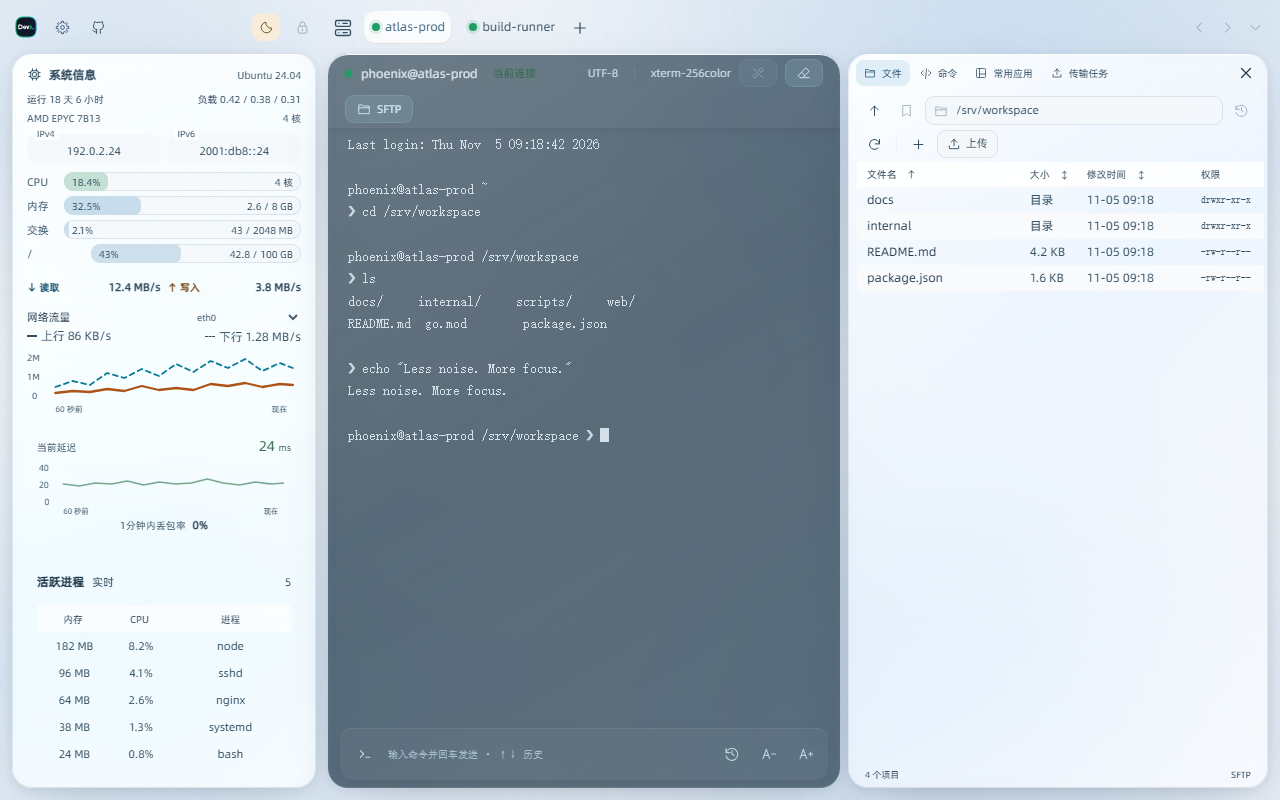
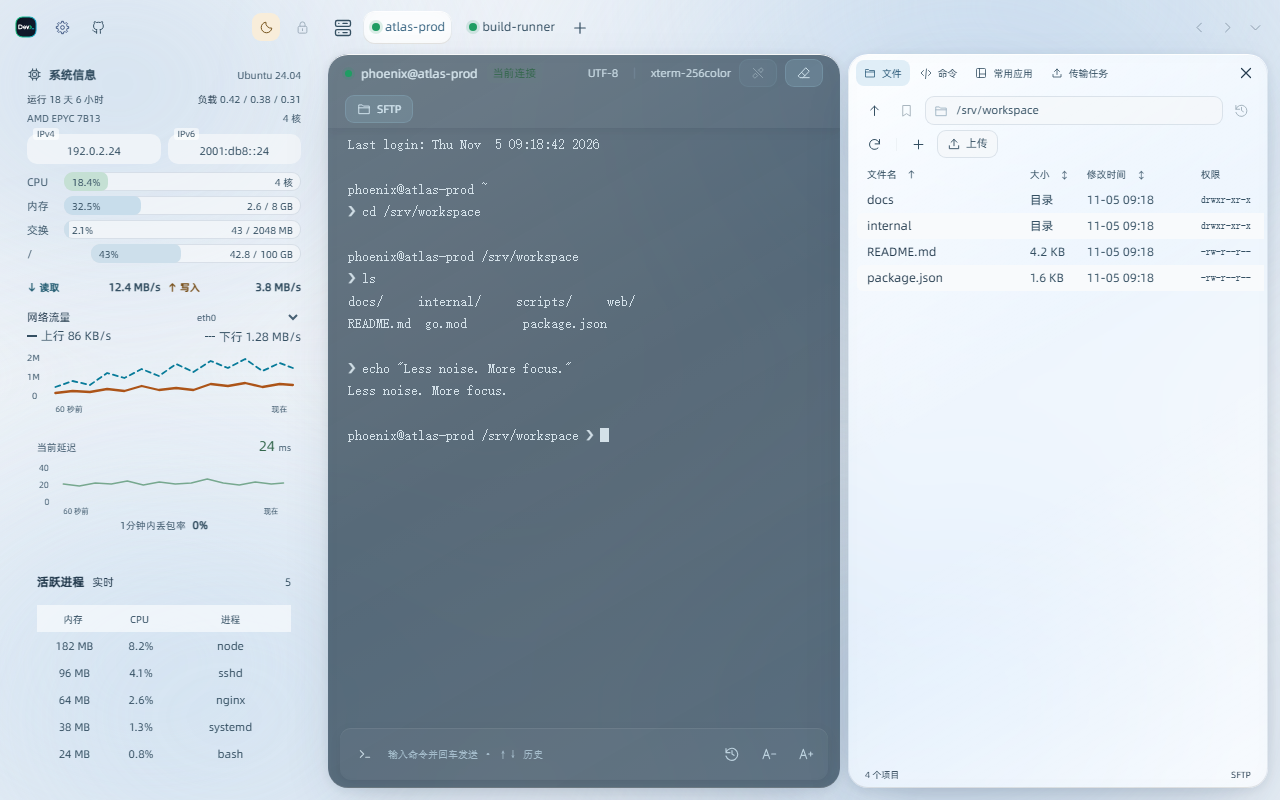
液态玻璃监控区融入画布，仅 Shell 与 SFTP 轻微分隔
监控区宽屏下不再是玻璃卡：透明背景、去模糊与投影，内容直接融入
画布，从顶部工具栏下方开始（margin-top 对齐保留），与 Shell、SFTP
顶部对齐；监控内不设嵌套卡片。文件列表去掉内框：表头取消粘顶与
底带，作为标题行随内容滚动，靠留白、标题与选中状态区分。窄屏抽屉
保持玻璃面避免压字。

验证：CSS 括号平衡、test:theme、test:tcp 通过；重截浅深预览确认。

Changed region(s): [[0.0312, 0.75, 0.25, 1.0], [0.0, 0.0625, 0.25, 0.2812]]

diff --git a/web/css/ui-styles.css b/web/css/ui-styles.css
@@ -105,9 +105,10 @@
   background:radial-gradient(42% 46% at 62% 30%,#aecbe8,#0000 60%),radial-gradient(36% 40% at 30% 70%,#c2d8ec,#0000 62%); }
 @keyframes liquid-drift { from { transform:translate3d(-2.5%,-1.5%,0) scale(1.05); } to { transform:translate3d(2.5%,2%,0) scale(1.14); } }
 [data-ui-style="frosted"] .sidebar { background:var(--glass-sheen),var(--glass-sidebar); backdrop-filter:blur(30px) saturate(1.8) brightness(1.05); -webkit-backdrop-filter:blur(30px) saturate(1.8) brightness(1.05); box-shadow:var(--glass-edge),inset -1px 0 var(--border),var(--shadow); }
-/* 宽屏下监控玻璃面从顶部工具栏下方开始，与 Shell 和 SFTP 对齐。
-   窄屏抽屉保持原来的定位。 */
-:root:not([data-narrow="true"])[data-ui-style="frosted"] .sidebar { background:var(--glass-sheen),var(--glass-sidebar); box-shadow:var(--glass-edge),var(--shadow); backdrop-filter:blur(30px) saturate(1.8) brightness(1.05); -webkit-backdrop-filter:blur(30px) saturate(1.8) brightness(1.05); border-radius:20px; }
+/* 宽屏下监控区不再是独立玻璃卡：内容直接融入画布，只从顶部工具栏下方
+   开始（margin-top:48px），与 Shell 和 SFTP 面板顶部对齐；仅 Shell 与
+   SFTP 两块玻璃与画布轻微分隔。窄屏抽屉保持玻璃面避免压字。 */
+:root:not([data-narrow="true"])[data-ui-style="frosted"] .sidebar { background:transparent; box-shadow:none; backdrop-filter:none; -webkit-backdrop-filter:none; border-radius:0; }
 html[data-ui-style="frosted"]:not([data-narrow="true"]):not([data-monitor-visible="false"]) .sidebar { margin-top:48px; padding-top:0; }
 /* 玻璃面上不留硬描边：芯片只靠底面色差成块，面板内分隔用明暗差完成，
    不出现直角发丝线。输入控件的细边框保留（那是控件，不是卡片）。 */
@@ -138,9 +139,9 @@ html[data-ui-style="frosted"]:not([data-narrow="true"]):not([data-monitor-visibl
 [data-ui-style="frosted"] :is(.file-table thead,.files-toolbar,.file-tabs,.file-status,.directory-tree,.commands-toolbar,.transfer-notice) { background:transparent; border-color:var(--border); }
 /* 目录与文件列表融入同一面板，交互状态仍保留底色。 */
 [data-ui-style="frosted"] :is(.file-table-wrap,.directory-tree,.file-table thead) { background:transparent; border:0; border-radius:0; box-shadow:none; }
-/* 粘性表头融入面板同色底带（不是卡片），避免列表滚动时文字穿透重叠。 */
-[data-ui-style="frosted"] .file-table thead { background:rgb(24 31 38 / .82); }
-[data-ui-style="frosted"][data-theme="light"] .file-table thead { background:rgb(255 255 255 / .88); }
+/* 文件列表去掉内框：表头不做底带也不粘顶，作为标题行随内容滚动，
+   内容靠留白、标题与选中状态区分。 */
+[data-ui-style="frosted"] .file-table thead { position:static; }
 [data-ui-style="frosted"] :is(.file-search,.path-form,.connection-search,.meter,dialog input,dialog select,dialog textarea,.server-icon,.themed-select-trigger,.count-badge,.upload-button) { background:var(--glass-input); color:var(--text); border:0; border-radius:9px; box-shadow:var(--glass-ring); }
 [data-ui-style="frosted"] :is(.connection-card,.tree-row,.tree-shortcut,.file-tab).selected,[data-ui-style="frosted"] .file-tab.active,[data-ui-style="frosted"] .file-table tr.selected { background:var(--surface-selected); color:var(--accent); }
 [data-ui-style="frosted"] button:focus-visible { outline:2px solid var(--accent); outline-offset:2px; }

diff --git a/docs/design/GLOBAL-THEMES.md b/docs/design/GLOBAL-THEMES.md
@@ -39,10 +39,11 @@
   强调色同族的蓝，不引入经典之外的颜色），**两层**光斑以不同速度反向漂移
   （`liquid-drift`，`prefers-reduced-motion` 下静止），玻璃后的光场明显流动；
   面板叠加镜面光泽层（`--glass-sheen`）与棱镜边缘（`--glass-edge`：上缘冷白、
-  下缘暖辉、1px 环、内侧光晕），配更深的悬浮投影，大面板圆角 20px；
-  顶部工具栏融入背景，
-  监控面板从工具栏下方开始，Shell 与 SFTP 通过面板间距轻微分隔；监控信息、目录与文件列表融入各自面板，
-  主要通过留白和标题区分内容，减少嵌套边框。
+  下缘暖辉、1px 环、内侧光晕），配悬浮投影，大面板圆角 20px；
+  只有 Shell 与 SFTP 两块玻璃与画布轻微分隔——顶部工具栏与监控区都融入
+  背景，监控面板从工具栏下方开始、与 Shell 和 SFTP 顶部对齐；监控信息、
+  目录与文件列表不设嵌套卡片与列表内框（表头不粘顶、随内容滚动），
+  主要通过留白、标题与选中状态区分内容。
 - 液态玻璃不使用背景图（保存的 `backgroundId` 原样保留，切回经典即恢复）；
   极地/夜幕照常使用背景。
 - 回退：`@supports not (backdrop-filter)` 或 `prefers-reduced-transparency` →
